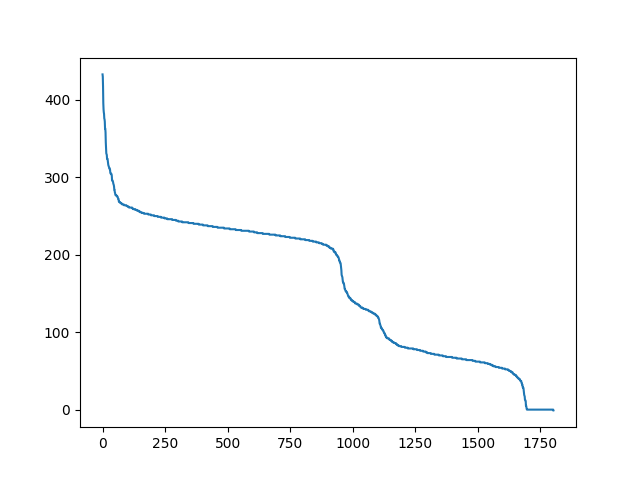
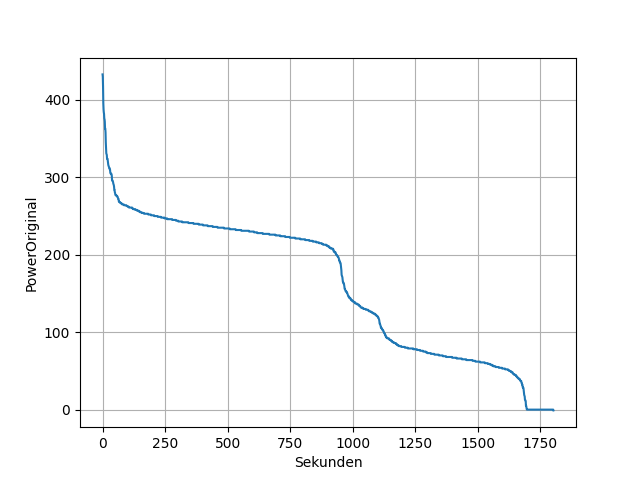
Plot mit Beschriftung

diff --git a/main.py b/main.py
@@ -12,9 +12,16 @@ PowerOriginal = data["PowerOriginal"]
 sorted_PowerOriginal = bubble_sort(PowerOriginal)
 
 # Leistungskurve anzeigen
-plt.plot(sorted_PowerOriginal[::-1])
+plt.plot(PowerOriginal[::-1])
+
+# Plot beschriftung
+plt.grid(True)
+plt.ylabel("PowerOriginal")
+plt.xlabel("Sekunden")
 
 # Ordner für Grafik erstellen und speichern der Grafik
+# Hilfestellung: https://stackoverflow.com/questions/11373610/save-matplotlib-file-to-a-directory
+
 if not os.path.exists("figures"):
     os.makedirs("figures")
 
